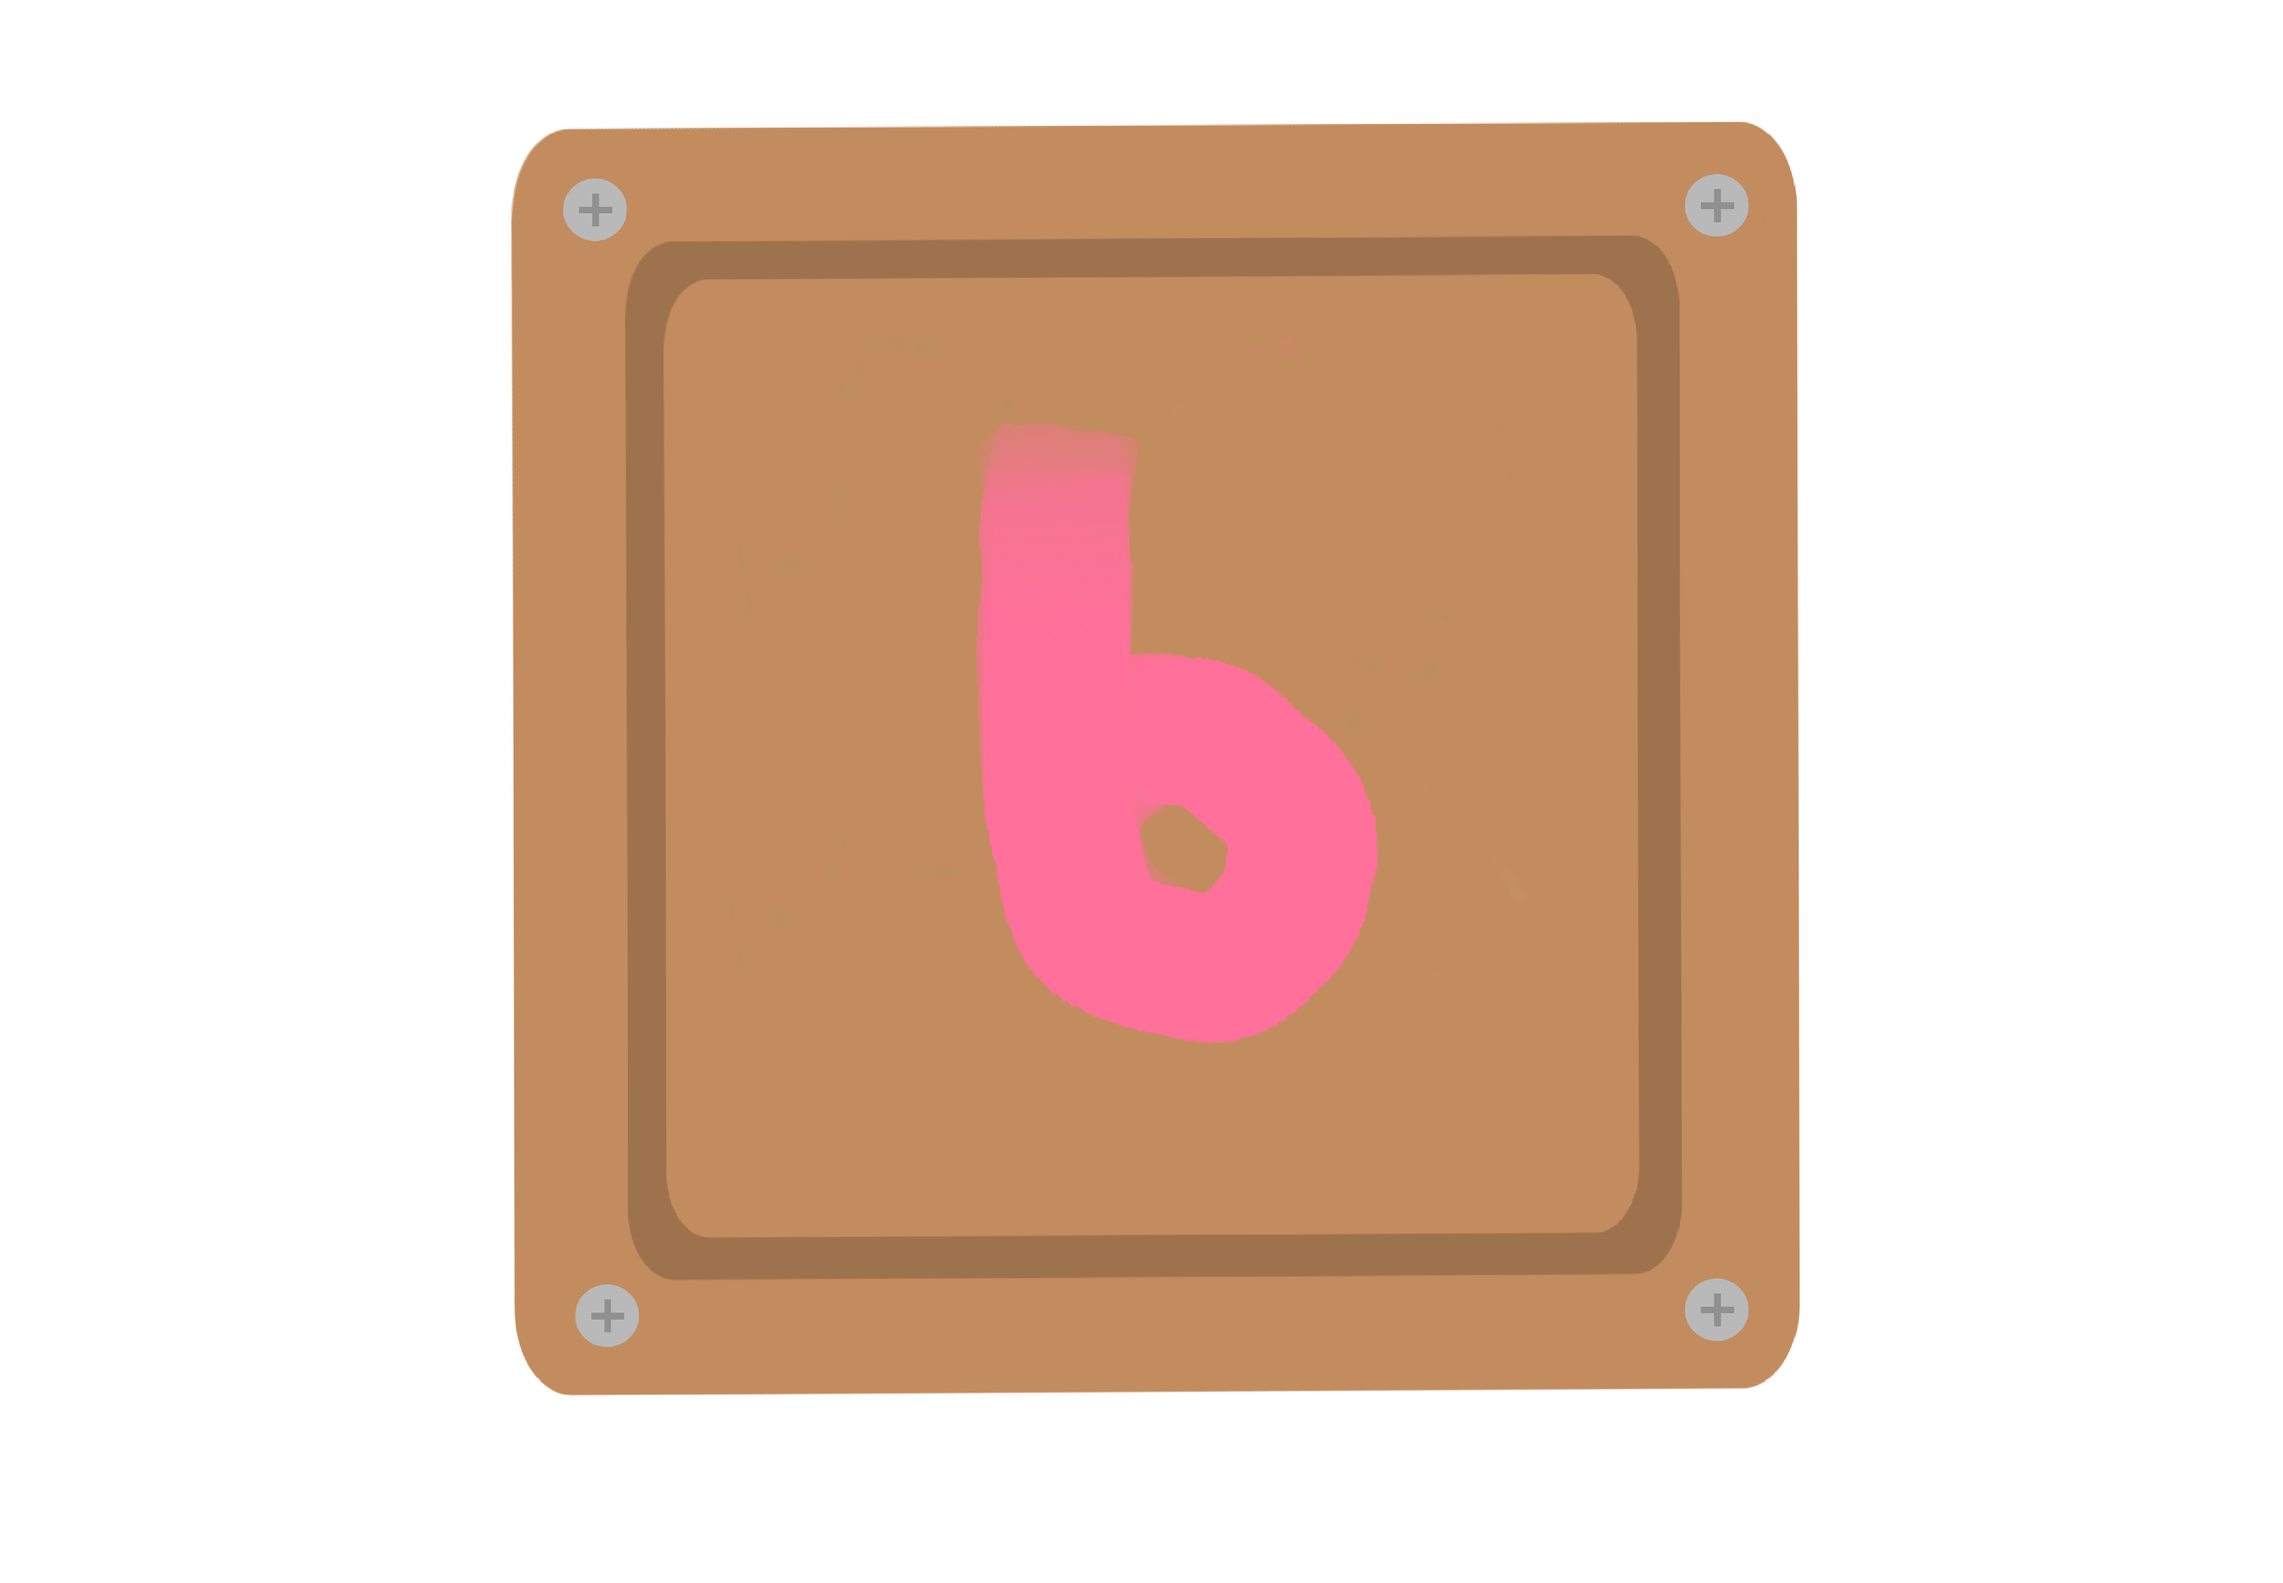
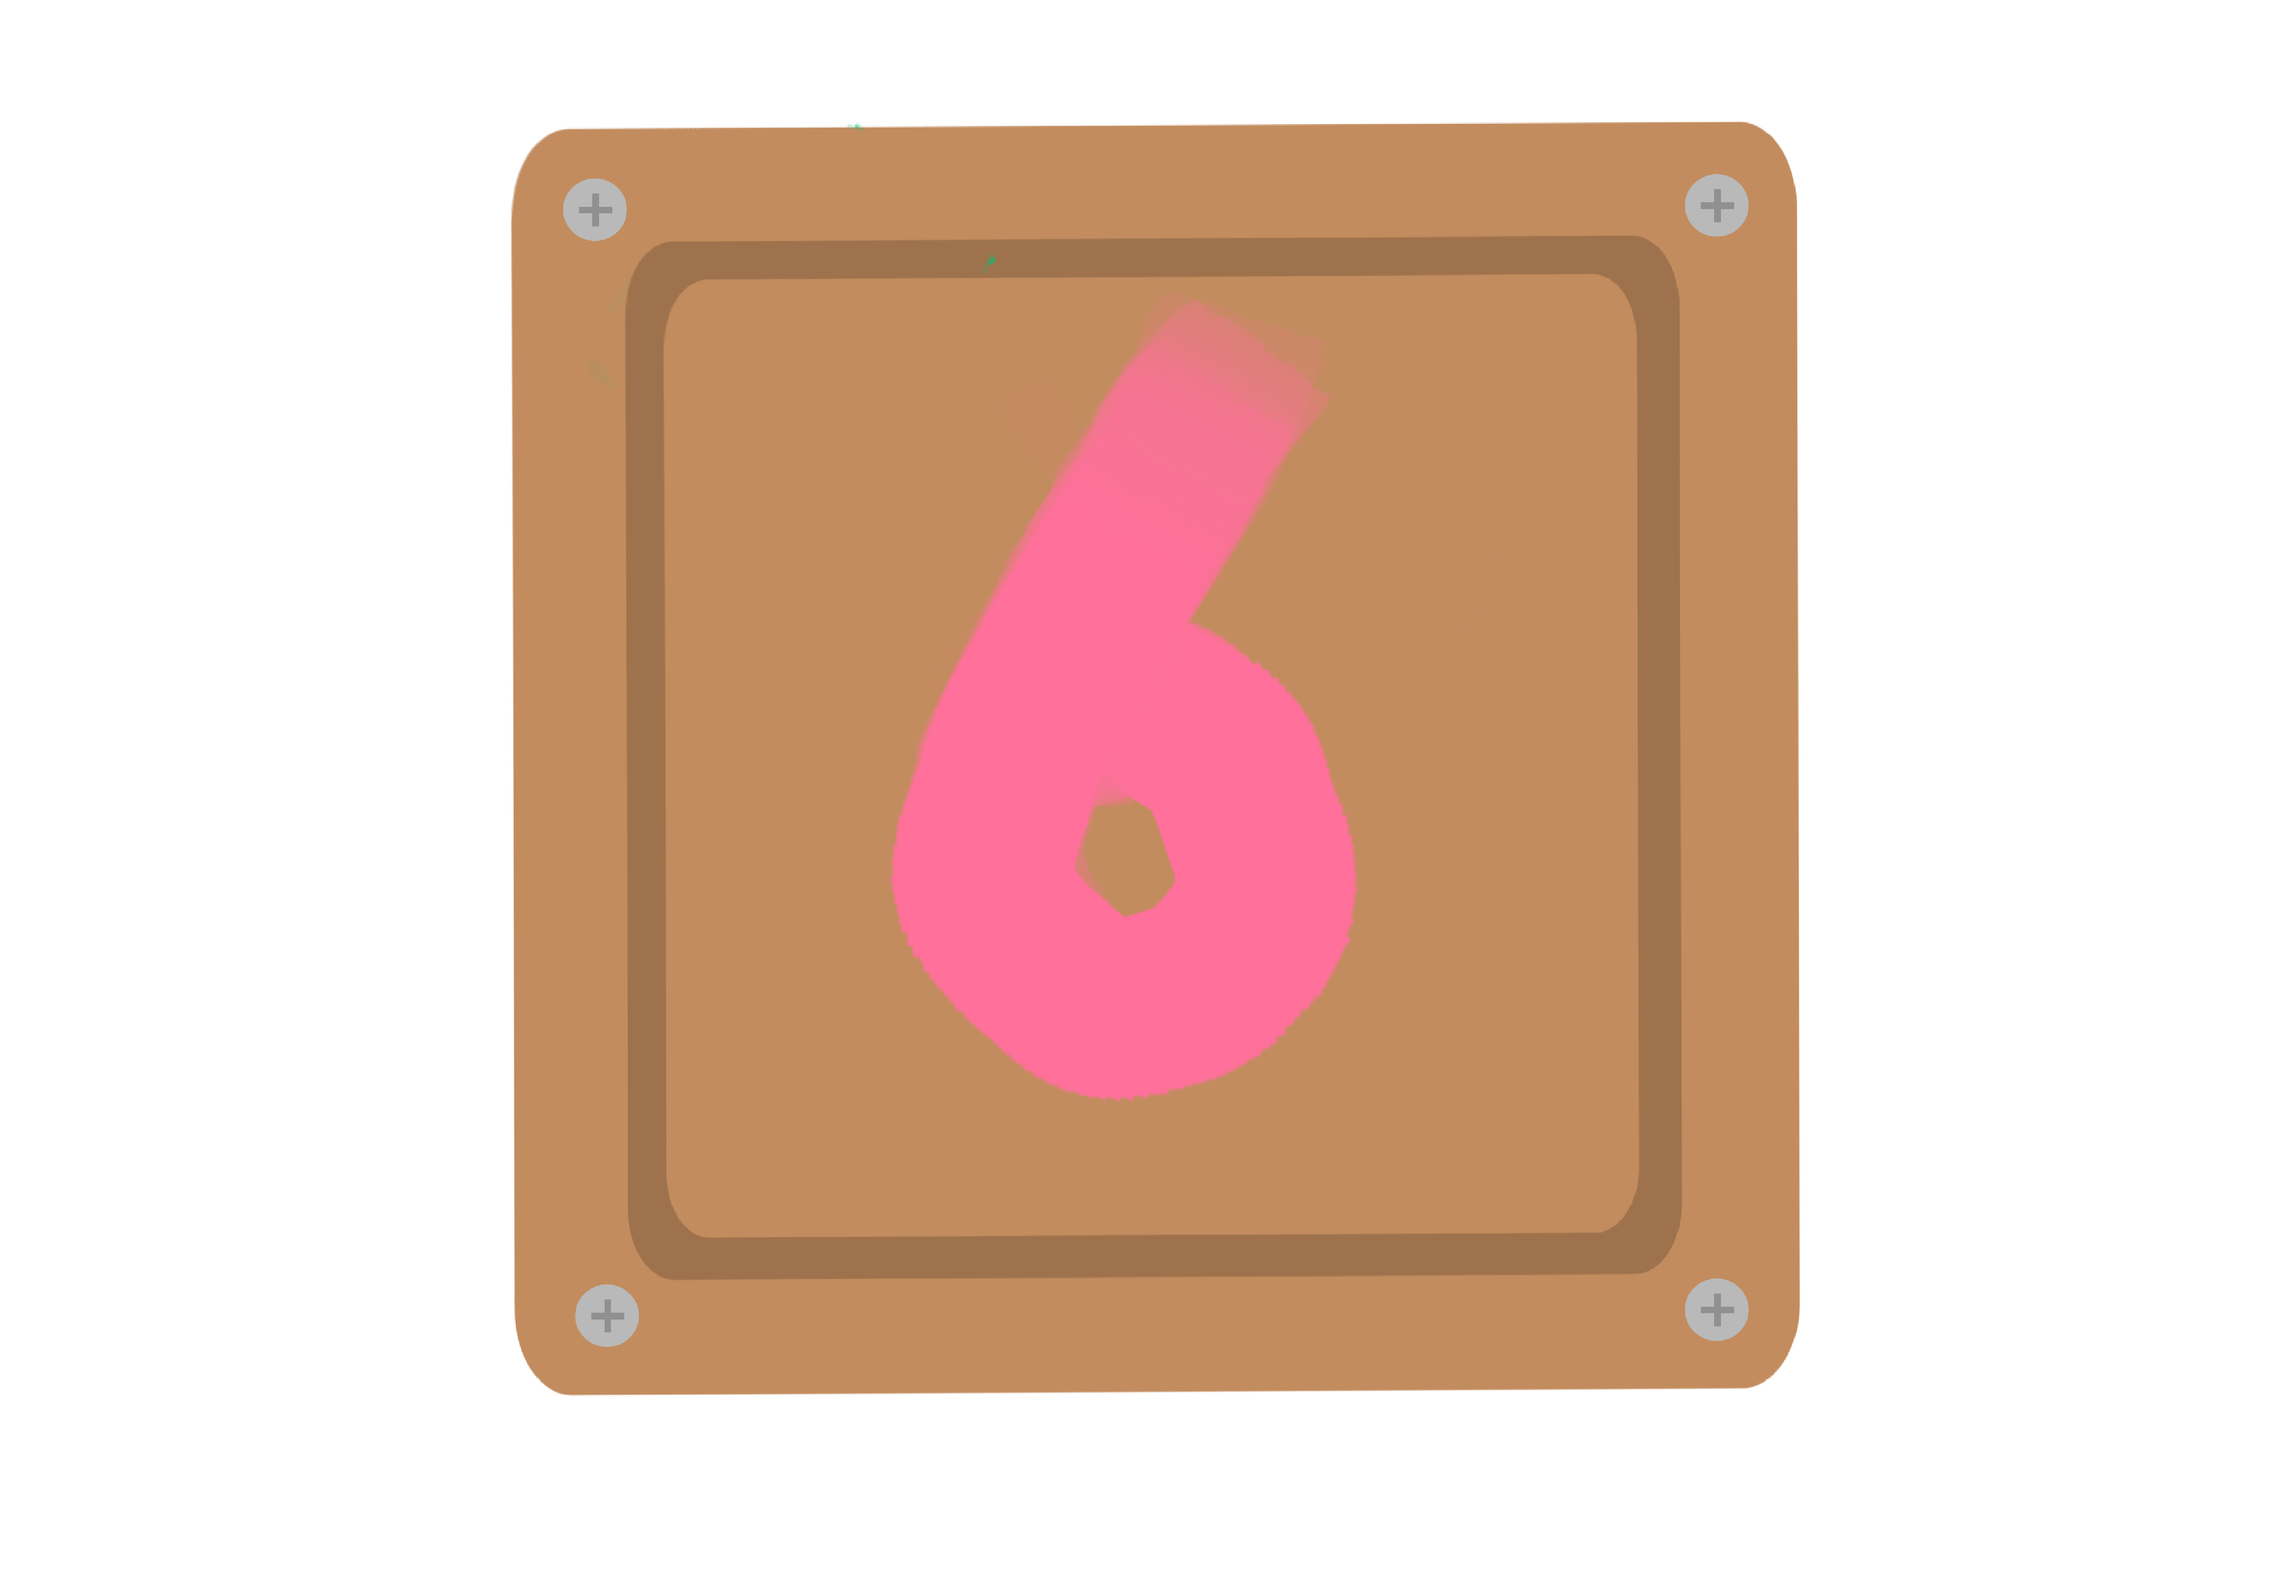
负数检测，箱子数量检测，关卡修改

diff --git a/Assets/Scripts/Item/Item.cs b/Assets/Scripts/Item/Item.cs
@@ -55,6 +55,10 @@ public class Item : MonoBehaviour
                     else
                     {
                         Destroy(collision.gameObject);
+                        //箱子数量校验
+                        GameObject gameManager = GameObject.Find("GameManager").gameObject;
+                        gameManager.GetComponent<GameManager>().boxAccount -= 1;
+                        gameManager.GetComponent<GameManager>().CheckBoxAccount();
                         Debug.Log("无法开根 箱子与方块消失");
                     }
                     //TODO
@@ -77,8 +81,10 @@ public class Item : MonoBehaviour
                     collision.gameObject.GetComponent<Box>().number -= subNumber;
                     Debug.Log(collision.gameObject.GetComponent<Box>().number);
 
-                    if (collision.gameObject.GetComponent<Box>().number < 0)
+                    if (collision.gameObject.GetComponent<Box>().number < 0){
                         Debug.Log("负数  Loss");
+                        GameObject.Find("Canvas").transform.Find("Dialog_Fail").gameObject.SetActive(true);
+                    }
                     characterAnimator.SetBool(usedID, true);
                     Move();
                     //Destroy(gameObject);

diff --git a/Assets/Scripts/Manager/GameManager.cs b/Assets/Scripts/Manager/GameManager.cs
@@ -7,6 +7,8 @@ public class GameManager : MonoBehaviour
 {
     [Header("要达成的箱子数量")]
     public int totalBoxs;
+    [Header("场上的箱子数量")]
+    public int boxAccount;
     public int finishedBoxs;
     public GameObject loadScreen;
 
@@ -27,6 +29,14 @@ public class GameManager : MonoBehaviour
             Dialog.SetActive(true);
             //StartCoroutine(LoadNextStage());
         }
+    }
+
+    public void CheckBoxAccount()
+    { 
+        if(totalBoxs-finishedBoxs>boxAccount){
+            Debug.Log("Box need for passing is lack.");
+            GameObject.Find("Canvas").transform.Find("Dialog_Fail").gameObject.SetActive(true);
+        }   
     }
 
 
